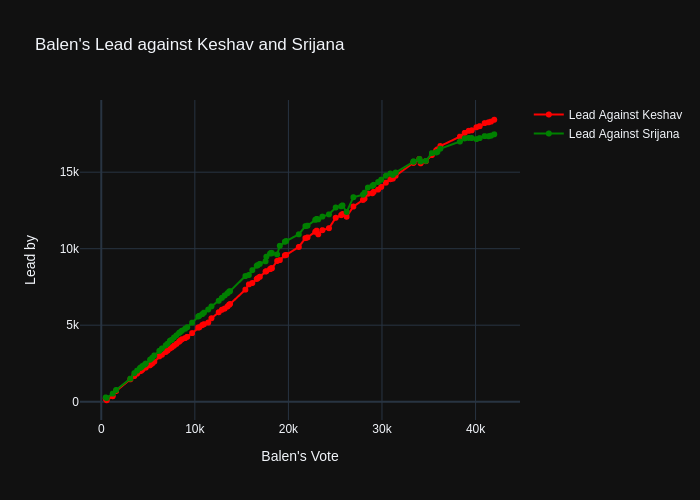
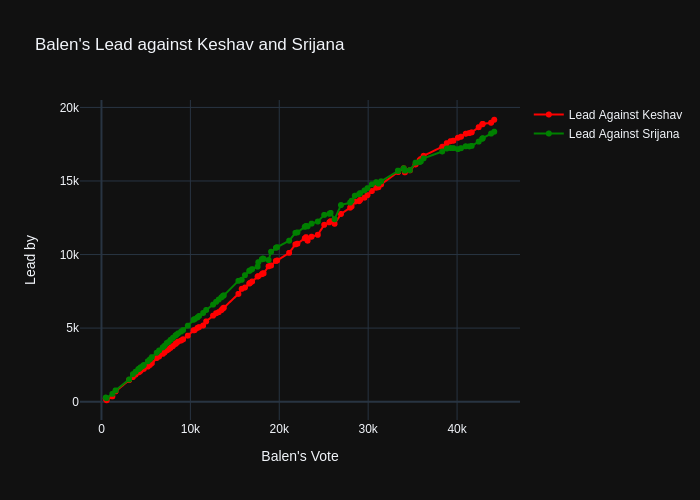
add data

diff --git a/README.md b/README.md
@@ -1,4 +1,4 @@
-## Last Update: 5/22/2022 20:27
+## Last Update: 5/23/2022 7:45
 
 ## Balen's Lead against Keshav Sthapit and Srijana Singh
 ![ScreenShot](final.jpg)
